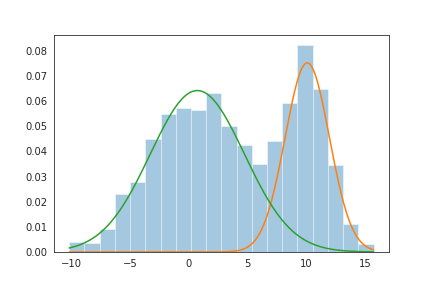
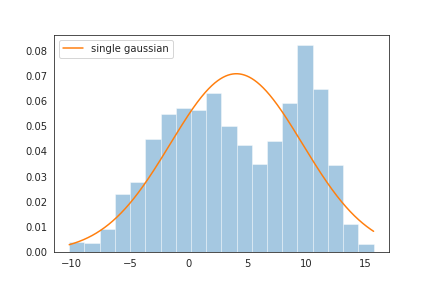
bugfix

diff --git a/_posts/2020-05-02-em.md b/_posts/2020-05-02-em.md
@@ -26,7 +26,8 @@ This type of mixture, being a finite sum, is called a finite mixture, and in app
 Lets define a Gaussian mixture model that we'll use later on for estimating the parameters of using EM. Of course since we create the model ourselves, we already know the parameters, the we simply want to test out whether we can also estimate them using EM and a data sample.
 
 $$\mu_1 = 1, \sigma_1 = 4, \pi_1 = 0.65$$
-$$\mu_1 = 2, \sigma_2 = 10, \pi_2 = 0.35$$
+
+$$\mu_2 = 10, \sigma_2 = 2, \pi_2 = 0.35$$
 
 ![Gaussian Mixture Model](/assets/em_1.png "Gaussian Mixture Model")
 
@@ -241,7 +242,7 @@ def em(sample, n_iterations):
 
 Running EM for $$1000$$ iterations resulted in the following fit:
 
-![Gaussian Mixture Model](/assets/em_2.png "Gaussian Mixture Model")
+![Gaussian Mixture Model](/assets/em_3.png "Gaussian Mixture Model")
 
 <!--  LocalWords:  Gaussians mathbb univariate geq displaystyle infty
  -->
